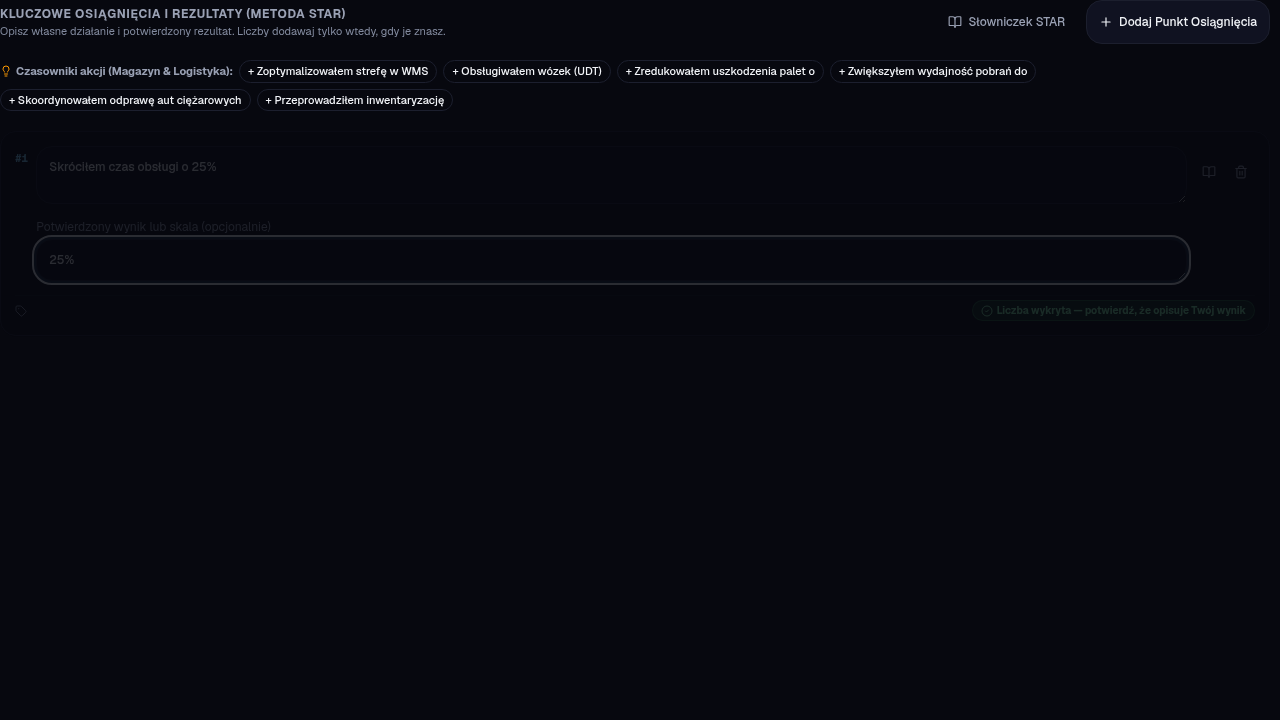
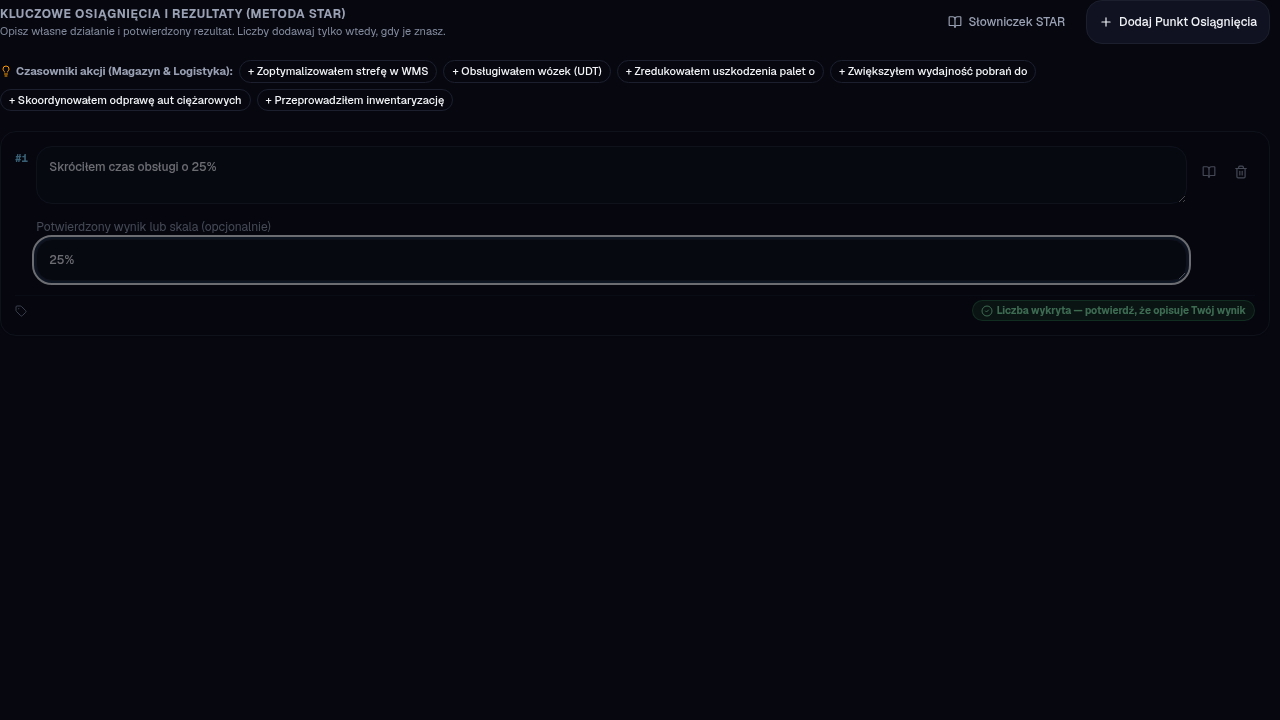
fix(consistency): validate source tags and HUD skill statistics

diff --git a/src/lib/consistencyGuard/consistencyEngine.ts b/src/lib/consistencyGuard/consistencyEngine.ts
@@ -335,6 +335,8 @@ export interface ProjectedClaimItem {
   projectionMissing?: boolean;
   projectionCountMismatch?: boolean;
   projectionDuplicate?: boolean;
+  claimedSkillStats?: HudSkillStat[];
+  activeSourceClaimIds?: string[];
 }
 
 /** Walidujemy dane wyjściowe, bo porównanie dwóch kopii źródła ukrywa błąd renderera. */
@@ -354,7 +356,7 @@ export function projectRendererOutputs(
   const hudClaimIds = new Set([...activeClaimIds, ...hudMetricCounts.keys()]);
   const hudCountMismatch = hud.activeClaimsCount !== new Set(activeClaimIds).size;
   // Sam licznik również może fabrykować fakty przy pustym wejściu.
-  if (hudCountMismatch && hudClaimIds.size === 0) hudClaimIds.add('');
+  if ((hudCountMismatch || hud.skillsRadar.length > 0) && hudClaimIds.size === 0) hudClaimIds.add('');
   const cvCounts = countIds(cv.sections.flatMap(section => section.items.map(item => item.claimId)));
   const pitchCounts = countIds(pitch.profileStatements.map(item => item.claimId));
   const cvClaimIds = new Set(cvCounts.keys());
@@ -363,7 +365,7 @@ export function projectRendererOutputs(
     [...new Set(activeClaimIds)].filter(id => !emittedIds.has(id)).map(claimId => ({
       sectionId, sectionName, claimId, projectionMissing: true,
     }));
-  return [
+  const projected: ProjectedClaimItem[] = [
     ...cv.sections.flatMap(section => section.items.map(item => ({
       sectionId: section.id,
       sectionName: section.title,
@@ -400,6 +402,12 @@ export function projectRendererOutputs(
     })),
     ...missingItems('pitch', 'Renderer Pitch', pitchClaimIds),
   ];
+  const hudItem = projected.find(item => item.sectionId === 'hud');
+  if (hudItem) {
+    hudItem.claimedSkillStats = hud.skillsRadar;
+    hudItem.activeSourceClaimIds = activeClaimIds;
+  }
+  return projected;
 }
 
 /**
@@ -477,6 +485,29 @@ export function validateConsistency(
 
       if (item.claimId) sectionsMap[secKey].claimsCount += 1;
 
+      if (item.claimedSkillStats !== undefined) {
+        const expected = new Map<string, string[]>();
+        for (const id of new Set(item.activeSourceClaimIds || [])) {
+          const claim = getClaimById(vault, id);
+          for (const tag of claim?.tags || []) expected.set(tag, [...(expected.get(tag) || []), id]);
+        }
+        const rows = item.claimedSkillStats;
+        const mismatch = rows.length !== expected.size || new Set(rows.map(row => row.skill)).size !== rows.length || rows.some(row => {
+          const ids = expected.get(row.skill);
+          return !ids || row.count !== ids.length || JSON.stringify([...row.claimIds].sort()) !== JSON.stringify([...new Set(ids)].sort());
+        });
+        if (mismatch) {
+          const radarAlert: ConsistencyAlert = {
+            id: 'alert_hud_skill_radar', sectionId: secKey, type: 'SKILL_RADAR_MISMATCH', severity: 'ALERT',
+            title: 'Radar kompetencji wymaga sprawdzenia',
+            message: 'Liczby, źródła lub wiersze radaru nie odpowiadają aktywnym faktom profilu.',
+          };
+          alerts.push(radarAlert);
+          sectionsMap[secKey].alerts.push(radarAlert);
+          sectionsMap[secKey].isConsistent = false;
+        }
+      }
+
       if (item.projectionCountMismatch) {
         const countAlert: ConsistencyAlert = {
           id: `alert_projection_count_${secKey}`,
@@ -493,6 +524,7 @@ export function validateConsistency(
         sectionsMap[secKey].isConsistent = false;
         if (!item.claimId) continue;
       }
+      if (!item.claimId) continue;
 
       // Sprawdzenie istnienia claimu w MasterVault
       const sourceClaim = getClaimById(vault, item.claimId);
@@ -615,6 +647,21 @@ export function validateConsistency(
           };
           alerts.push(metricAlert);
           sectionsMap[secKey].alerts.push(metricAlert);
+          sectionsMap[secKey].isConsistent = false;
+        }
+      }
+
+      // Pusty zbiór również może oznaczać usunięcie kompetencji ze źródła.
+      if (item.claimedTags !== undefined) {
+        const normalizeTags = (tags: string[]) => [...new Set(tags.map(tag => stripDiacriticsLower(tag).trim()))].sort();
+        if (JSON.stringify(normalizeTags(item.claimedTags)) !== JSON.stringify(normalizeTags(sourceClaim.tags || []))) {
+          const tagsAlert: ConsistencyAlert = {
+            id: `alert_tags_${secKey}_${item.claimId}`, claimId: item.claimId, sectionId: secKey,
+            type: 'TAGS_MISMATCH', severity: 'ALERT', title: 'Kompetencje podglądu różnią się od profilu',
+            message: `Tagi faktu „${sourceClaim.sourceProject}” zmieniono, usunięto lub dopisano. Sprawdź podgląd przed użyciem.`,
+          };
+          alerts.push(tagsAlert);
+          sectionsMap[secKey].alerts.push(tagsAlert);
           sectionsMap[secKey].isConsistent = false;
         }
       }

diff --git a/src/lib/__tests__/consistencyGuard.test.ts b/src/lib/__tests__/consistencyGuard.test.ts
@@ -359,6 +359,66 @@ describe('ConsistencyGuard Engine', () => {
       expect(result.alerts.some(item => item.type === 'PROJECTION_DUPLICATE')).toBe(true);
     });
 
+    it.each(['cv', 'hud', 'pitch'].flatMap(renderer => ['missing', 'changed'].map(fault => [renderer, fault])))('wykrywa %s tagi: %s', (renderer, fault) => {
+      const vault = createEmptyVault();
+      vault.claims = [{ id: 'tagged', sourceProject: 'Projekt testowy', tags: ['SEP'] }];
+      const cv = renderCvFromClaims(vault);
+      const hud = renderHudFromClaims(vault);
+      const pitch = renderPitchFromClaims(vault);
+      const tags = fault === 'missing' ? [] : ['UDT'];
+      if (renderer === 'cv') cv.sections[0].items[0].tags = tags;
+      else if (renderer === 'pitch') pitch.profileStatements[0].tags = tags;
+      else hud.skillsRadar = tags.map(skill => ({ skill, count: 1, claimIds: ['tagged'] }));
+      const result = validateConsistency(vault, {
+        projectedItems: projectRendererOutputs(cv, hud, pitch, ['tagged']),
+      });
+      expect(result.sections[renderer].isConsistent).toBe(false);
+      expect(result.alerts.some(item => item.type === 'TAGS_MISMATCH')).toBe(true);
+    });
+
+    it.each(['count', 'duplicate', 'claimIds'])('wykrywa błędny radar HUD: %s', fault => {
+      const vault = createEmptyVault();
+      vault.claims = [{ id: 'tagged', sourceProject: 'Projekt testowy', tags: ['SEP'] }];
+      const hud = renderHudFromClaims(vault);
+      if (fault === 'count') hud.skillsRadar[0].count = 99;
+      else if (fault === 'duplicate') hud.skillsRadar.push({ ...hud.skillsRadar[0] });
+      else hud.skillsRadar[0].claimIds.push('tagged');
+      const result = validateConsistency(vault, {
+        projectedItems: projectRendererOutputs(renderCvFromClaims(vault), hud, renderPitchFromClaims(vault), ['tagged']),
+      });
+      expect(result.sections.hud.isConsistent).toBe(false);
+      expect(result.alerts.some(item => item.type === 'SKILL_RADAR_MISMATCH')).toBe(true);
+    });
+
+    it('radar zachowuje liczbę wystąpień tagu i unikalne źródła', () => {
+      const vault = createEmptyVault();
+      vault.claims = [{ id: 'tagged', sourceProject: 'Projekt testowy', tags: ['SEP', 'SEP'] }];
+      const result = validateConsistency(vault, {
+        projectedItems: projectRendererOutputs(renderCvFromClaims(vault), renderHudFromClaims(vault), renderPitchFromClaims(vault), ['tagged']),
+      });
+      expect(result.isConsistent).toBe(true);
+    });
+
+    it('akceptuje tagi po normalizacji wielkości liter, odstępów i kolejności', () => {
+      const vault = createEmptyVault();
+      vault.claims = [{ id: 'tagged', sourceProject: 'Projekt testowy', tags: ['SEP', 'UDT'] }];
+      const result = validateConsistency(vault, {
+        projectedItems: [{ sectionId: 'cv', sectionName: 'CV', claimId: 'tagged', claimedTags: [' udt ', 'sep'] }],
+      });
+      expect(result.isConsistent).toBe(true);
+    });
+
+    it('odrzuca zmyślony radar również dla pustego profilu', () => {
+      const vault = createEmptyVault();
+      const hud = renderHudFromClaims(vault);
+      hud.skillsRadar = [{ skill: 'SEP', count: 1, claimIds: [] }];
+      const result = validateConsistency(vault, {
+        projectedItems: projectRendererOutputs(renderCvFromClaims(vault), hud, renderPitchFromClaims(vault), []),
+      });
+      expect(result.sections.hud.isConsistent).toBe(false);
+      expect(result.sections.hud.claimsCount).toBe(0);
+    });
+
     it('akceptuje rzeczywiste wyjścia rendererów bez metryk i dat', () => {
       const vault = createEmptyVault();
       vault.claims = [{ id: 'plain', sourceProject: 'Projekt testowy', tags: [] }];
@@ -426,7 +486,7 @@ describe('ConsistencyGuard Engine', () => {
             sectionName: 'Doświadczenie CV',
             claimId: 'claim_exp_exp_1',
             claimedDateRange: { start: '2021-01', end: '2023-01' }, // 2.0 lata (zgodne z exp_1)
-            claimedTags: ['TypeScript', 'Node.js'],
+            claimedTags: ['TypeScript', 'Node.js', 'PostgreSQL'],
             claimedMetric: '+40% TPS',
           },
         ],

diff --git a/src/lib/consistencyGuard/types.ts b/src/lib/consistencyGuard/types.ts
@@ -12,6 +12,8 @@ export type ConsistencyAlertType =
   | 'PROJECTION_MISSING'
   | 'PROJECTION_COUNT_MISMATCH'
   | 'PROJECTION_DUPLICATE'
+  | 'TAGS_MISMATCH'
+  | 'SKILL_RADAR_MISMATCH'
   | 'INVALID_DATE_RANGE'
   | 'CAREER_GAP'
   | 'LOCATION_CONFLICT'

diff --git a/scripts/e2e-consistency-renderer-review.py b/scripts/e2e-consistency-renderer-review.py
@@ -40,12 +40,16 @@ async def main():
                 'hud-duplicate': ('verifiedMetrics.push({', 'verifiedMetrics.push({claimId:claim.id, label:claim.sourceProject, value:"40%", sourceProject:claim.sourceProject}); verifiedMetrics.push({'),
                 'cv-duplicate': ('experiencesSection.items.push(item);', 'experiencesSection.items.push(item, item);'),
                 'pitch-duplicate': ('const hookCtx = {', 'profileStatements.push(...profileStatements); const hookCtx = {'),
+                'missing-tags': ('tags: claim.tags || [],', 'tags: [],'),
+                'changed-tags': ('tags: claim.tags || [],', 'tags: ["UDT"],'),
+                'hud-skill-count': ('count: data.count,', 'count: 99,'),
+                'hud-skill-duplicate': ('skillsRadar,', 'skillsRadar: [...skillsRadar, ...skillsRadar],'),
             }
             marker, replacement = mutations[scenario]
             assert marker in body, "Nie znaleziono miejsca kontrolowanej mutacji renderera"
             body = body.replace(marker, replacement, 1)
             await route.fulfill(response=response, body=body)
-        for scenario, baseline in [(case, old) for case in ['metric', 'missing-cv', 'missing-pitch', 'missing-date', 'hud-count', 'hud-duplicate', 'cv-duplicate', 'pitch-duplicate'] for old in [True, False]]:
+        for scenario, baseline in [(case, old) for case in ['metric', 'missing-cv', 'missing-pitch', 'missing-date', 'hud-count', 'hud-duplicate', 'cv-duplicate', 'pitch-duplicate', 'missing-tags', 'changed-tags', 'hud-skill-count', 'hud-skill-duplicate'] for old in [True, False]]:
             context = await browser.new_context()
             await context.route("**/src/lib/consistencyGuard/consistencyEngine.ts*", changed_renderer)
             page = await context.new_page()
@@ -60,7 +64,7 @@ async def main():
                     import('/src/lib/sampleVault.ts')
                 ]);
                 const vault = createEmptyVault();
-                vault.claims = [{id:'metric', sourceProject:'Syntetyczny monter', tags:[],
+                vault.claims = [{id:'metric', sourceProject:'Syntetyczny monter', tags:['missing-tags','changed-tags','hud-skill-count','hud-skill-duplicate'].includes(scenario) ? ['SEP'] : [],
                     ...(['metric','hud-duplicate'].includes(scenario) ? {metric:'20%'} : {}),
                     ...(scenario === 'missing-date' ? {dateRange:'2020-2022'} : {})}];
                 document.body.innerHTML = '<main id="release-proof"></main>';

diff --git a/docs/04.09.2026.md b/docs/04.09.2026.md
@@ -1,5 +1,12 @@
 # Audyt Kierivo — 04.09.2026
 
+## 08.10.2026 — tagi i liczby radaru ze źródła
+
+- Review `1dc1fef` wykazało dwie luki: usunięte/zamienione tagi oraz błędna liczność/powtórzone wiersze radaru HUD mogły przejść jako spójne. Dziewięć nowych regresji FAIL przed (68 PASS); po zmianie focused 80/80 PASS, z dodatkowymi przypadkami poprawnej normalizacji, powtarzających się tagów źródłowych i pustego profilu.
+- Walidator porównuje znormalizowane zbiory tagów ze źródłem. Radar zachowuje rzeczywiste wiersze/liczby/ID do porównania z aktywnymi faktami; liczba wystąpień tagu i unikalność ID źródeł są sprawdzane oddzielnie. `TAGS_MISMATCH` i `SKILL_RADAR_MISMATCH` blokują potwierdzenie spójności.
+- Playwright: dwanaście kontrolowanych awarii rendererów przed/po PASS, jawna edycja metryki PASS. Pierwsza próba przerwana przez reload Vite podczas zmiany pliku testowego; ponowiona po zakończeniu edycji PASS. To dowód lokalnych komponentów, bez odbioru produkcji i kont. Świeże CI i review kolejnego head nadal wymagane.
+- Hunter: PR #1 odebrany na head `f28f031` (świeży CI SUCCESS, ponowne review bez poważnych uwag) i scalony do main `0922f476febc4709ce00d00f5acdc345971f1580`. ADR-128 Done obejmuje wyłącznie instalację/CI; prywatne API/OAuth, import, trwałość, demo i hybryda pozostają otwarte. Workflow Huntera nie wdraża.
+
 ## 08.10.2026 — duplikaty wszystkich projekcji
 
 - Świeże review `cb8bf6e` wskazało, że kontrola powtórzeń obejmowała HUD, ale pomijała CV i Pitch. Dwie nowe regresje FAIL przed zmianą (66 PASS); po minimalnym rozszerzeniu liczenia ID 68/68 PASS.
